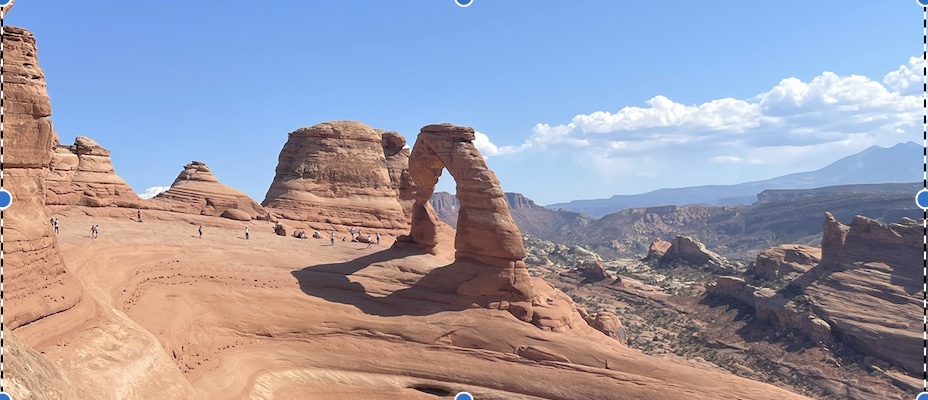
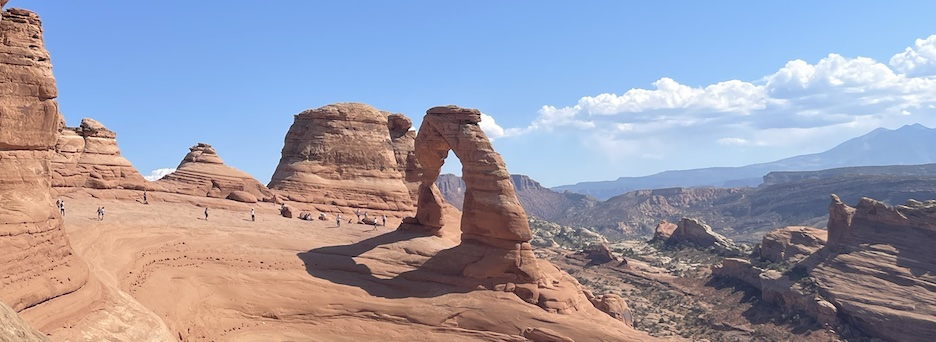
update covers

diff --git a/_pages/publications.md b/_pages/publications.md
@@ -6,9 +6,9 @@ sitemap: false
 permalink: /publications/
 ---
 <div markdown="0" class="cover-image-container" style="text-align: center; margin: 1px 0;">
-<img src="{{ site.url }}{{ site.baseurl }}/images/cover/fill.jpg" 
+<img src="{{ site.url }}{{ site.baseurl }}/images/cover/DC.jpg" 
     alt="Cover Image" 
-    style="width: 100%; max-height: 250px; object-fit: cover; border-radius: 1px;">
+    style="width: 100%; max-height: 250px; object-fit: fill; border-radius: 1px;">
 </div>
 
 #### Publications

diff --git a/_pages/bio.md b/_pages/bio.md
@@ -9,7 +9,7 @@ permalink: /bio
 <div markdown="0" class="cover-image-container" style="text-align: center; margin: 1px 0;">
 <img src="{{ site.url }}{{ site.baseurl }}/images/cover/Alta.jpg" 
     alt="Cover Image" 
-    style="width: 100%; max-height: 250px; object-fit: cover; border-radius: 1px;">
+    style="width: 100%; max-height: 250px; object-fit: fill; border-radius: 1px;">
 </div>
 
 ### **Education**
